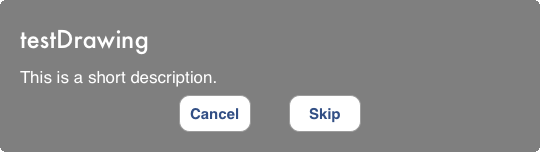
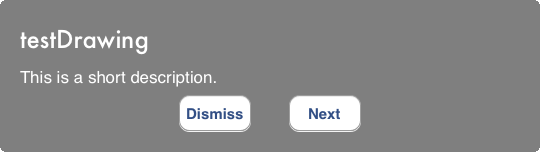
Added several more steps of the tutorial.

diff --git a/Classes/IPTutorialManager.m b/Classes/IPTutorialManager.m
@@ -37,7 +37,7 @@
 @synthesize state                = state_;
 @synthesize tutorialTitles       = tutorialTitles_;
 @synthesize tutorialDescriptions = tutorialDescriptions_;
-
+@dynamic isLastState;
 @dynamic tutorialTitle;
 @dynamic tutorialDescription;
 
@@ -50,12 +50,18 @@
     
     tutorialTitles_ = [[NSArray alloc] initWithObjects:
                        @"Welcome to Pholio!",
+                       @"The Long Press",
                        @"Drag and Drop",
+                       @"Editing titles",
+                       @"Have fun!",
                        @"No tutorial",
                        nil];
     tutorialDescriptions_ = [[NSArray alloc] initWithObjects:
                              @"Pholio helps you build, organize, and display beautiful portfolios of your images.",
-                             @"(Add some text about how you can drag and drop here...)",
+                             @"The key gesture for using Pholio is the long press. Doing a long press on the screen brings up a menu of actions. Not only can you do a long press on existing galleries or photos, you can do a long press on empty space to create new photos or galleries. Try a long press now.",
+                             @"It's easy to rearrange anything: Just drag and drop. Try it now!",
+                             @"You can also edit the title of anything. Just tap the title bar and you can start editing. You can even put your name or your photo business name as the title of the main screen. Try it now.",
+                             @"That's it! I hope you find Pholio easy to use, and I hope you enjoy using it to show off your work to friends, family, and clients.",
                              @"No tutorial",
                              nil];
   }
@@ -123,7 +129,7 @@
   
   if (self.state == kTutorialManagerStateLast) {
     
-    self.state = IPTutorialManagerStateNoTutorial;
+    return;
     
   } else {
     
@@ -145,6 +151,13 @@
 - (NSString *)tutorialDescription {
   
   return [self.tutorialDescriptions objectAtIndex:self.state];
+}
+
+////////////////////////////////////////////////////////////////////////////////
+
+- (BOOL)isLastState {
+  
+  return (self.state == kTutorialManagerStateLast);
 }
 
 @end

diff --git a/Classes/BDOverlayViewController.m b/Classes/BDOverlayViewController.m
@@ -93,6 +93,7 @@
   [descriptionText_ release];
   [overlayTitleLabel_ release];
   [descriptionLabel_ release];
+  [upRecognizer_ release];
   [downRecognizer_ release];
   [leftRecognizer_ release];
   [rightRecognizer_ release];
@@ -198,6 +199,7 @@
 
 - (void)layoutLabels {
   
+  _GTMDevAssert([self isViewLoaded], @"The view needs to be loaded to perform the layout.");
   CGSize newSize = [self.descriptionText sizeWithFont:self.descriptionLabel.font 
                                     constrainedToSize:self.defaultDescriptionSize];
   _GTMDevLog(@"%s -- computed new description label size: (%f, %f). Original = (%f, %f)",
@@ -215,6 +217,23 @@
   frame = self.cancelButton.frame;
   CGFloat targetY = CGRectGetMaxY(self.descriptionLabel.frame) + 8;
   self.cancelButton.frame = CGRectOffset(frame, 0, targetY - frame.origin.y);
+  if (self.skipButton.hidden) {
+    
+    //
+    //  If the skip button is hidden, move cancelButton over to center it in the 
+    //  frame.
+    //
+    
+    _GTMDevLog(@"%s -- skip button is hidden. Self = %@, cancel = %@",
+               __PRETTY_FUNCTION__,
+               self.view,
+               self.cancelButton);
+    self.cancelButton.frame = CGRectOffset(self.cancelButton.frame, 
+                                           CGRectGetMidX(self.view.bounds) - CGRectGetMidX(self.cancelButton.frame),
+                                           0);
+    _GTMDevAssert(CGRectGetMidX(self.view.bounds) == CGRectGetMidX(self.cancelButton.frame), 
+                  @"Button should be centered");
+  }
   
   frame = self.skipButton.frame;
   self.skipButton.frame   = CGRectOffset(frame, 0, targetY - frame.origin.y);
@@ -257,7 +276,9 @@
 
 - (void)setSkipDisabled:(BOOL)disabled {
   
-  self.skipButton.enabled = !disabled;
+  _GTMDevAssert([self isViewLoaded], @"View must be loaded to hide skip button");
+  self.skipButton.hidden = disabled;
+  [self layoutLabels];
 }
 
 ////////////////////////////////////////////////////////////////////////////////

diff --git a/Classes/IPTutorialManager.h b/Classes/IPTutorialManager.h
@@ -31,15 +31,21 @@
 
 typedef enum {
   IPTutorialManagerStateWelcome,
+  IPTutorialManagerStateLongPressExisting,
   IPTutorialManagerStateDragDrop,
+  IPTutorialManagerStateEditTitle,
+  IPTutorialManagerStateHaveFun,
   IPTutorialManagerStateNoTutorial
 } IPTutorialManagerState;
 
-#define kTutorialManagerStateLast     IPTutorialManagerStateNoTutorial
+#define kTutorialManagerStateLast     IPTutorialManagerStateHaveFun
 
 typedef enum {
   IPTutorialManagerEventNext,
-  IPTutorialManagerEventDidDragDrop
+  IPTutorialManagerEventLongPressExisting,
+  IPTutorialManagerEventDidDragDrop,
+  IPTutorialManagerEventEditTitle,
+  IPTutorialManagerEventHaveFun
 } IPTutorialManagerEvent;
 
 ////////////////////////////////////////////////////////////////////////////////
@@ -51,6 +57,7 @@ typedef enum {
 @property (nonatomic, assign) IPTutorialManagerState state;
 @property (nonatomic, readonly) NSString *tutorialTitle;
 @property (nonatomic, readonly) NSString *tutorialDescription;
+@property (nonatomic, readonly) BOOL isLastState;
 
 + (IPTutorialManager *)sharedManager;
 

diff --git a/Classes/IPPortfolioGridViewController.m b/Classes/IPPortfolioGridViewController.m
@@ -799,6 +799,17 @@
 }
 
 ////////////////////////////////////////////////////////////////////////////////
+
+- (BOOL)gridViewShouldEdit:(BDGridView *)gridView {
+  
+  if ([self.tutorialManager updateTutorialStateForEvent:IPTutorialManagerEventLongPressExisting]) {
+    
+    self.overlayController = [self overlayControllerForCurrentState];
+  }
+  return [super gridViewShouldEdit:gridView];
+}
+
+////////////////////////////////////////////////////////////////////////////////
 //
 //  The user tapped a set. Navigate to it.
 //
@@ -1155,6 +1166,10 @@
   
   self.portfolio.title = textField.text;
   [self.portfolio savePortfolioToPath:[IPPortfolio defaultPortfolioPath]];
+  if ([self.tutorialManager updateTutorialStateForEvent:IPTutorialManagerEventEditTitle]) {
+    
+    self.overlayController = [self overlayControllerForCurrentState];
+  }
 }
 
 #pragma mark - Tutorial

diff --git a/UnitTests/BDOverlayViewController-test.m b/UnitTests/BDOverlayViewController-test.m
@@ -102,6 +102,18 @@
   STAssertEquals((NSUInteger)0, expectedDirections, @"Should cover all directions");
 }
 
+////////////////////////////////////////////////////////////////////////////////
+
+- (void)testSkipDisabled {
+  
+  BDOverlayViewController *controller = [[[BDOverlayViewController alloc] initWithDelegate:self] autorelease];
+  controller.overlayTitleText = @"No skip button";
+  controller.descriptionText  = @"I've removed the skip button from this screen. You should see the Dismiss button centered.";
+  [controller view];
+  [controller setSkipDisabled:YES];
+  GTMAssertObjectImageEqualToImageNamed([controller view], @"BDOverlayViewController_skipDisabled", nil);
+}
+
 #pragma mark - BDOverlayViewControllerDelegate
 
 ////////////////////////////////////////////////////////////////////////////////

diff --git a/Classes/IPEditableTitleViewController.m b/Classes/IPEditableTitleViewController.m
@@ -808,6 +808,7 @@ didFinishPickingMediaWithInfo:(NSDictionary *)info {
   overlay.descriptionText  = self.tutorialManager.tutorialDescription;
   overlay.view.center      = self.view.center;
   overlay.view.alpha       = 0.0;
+  [overlay setSkipDisabled:self.tutorialManager.isLastState];
   return overlay;
 }
 
